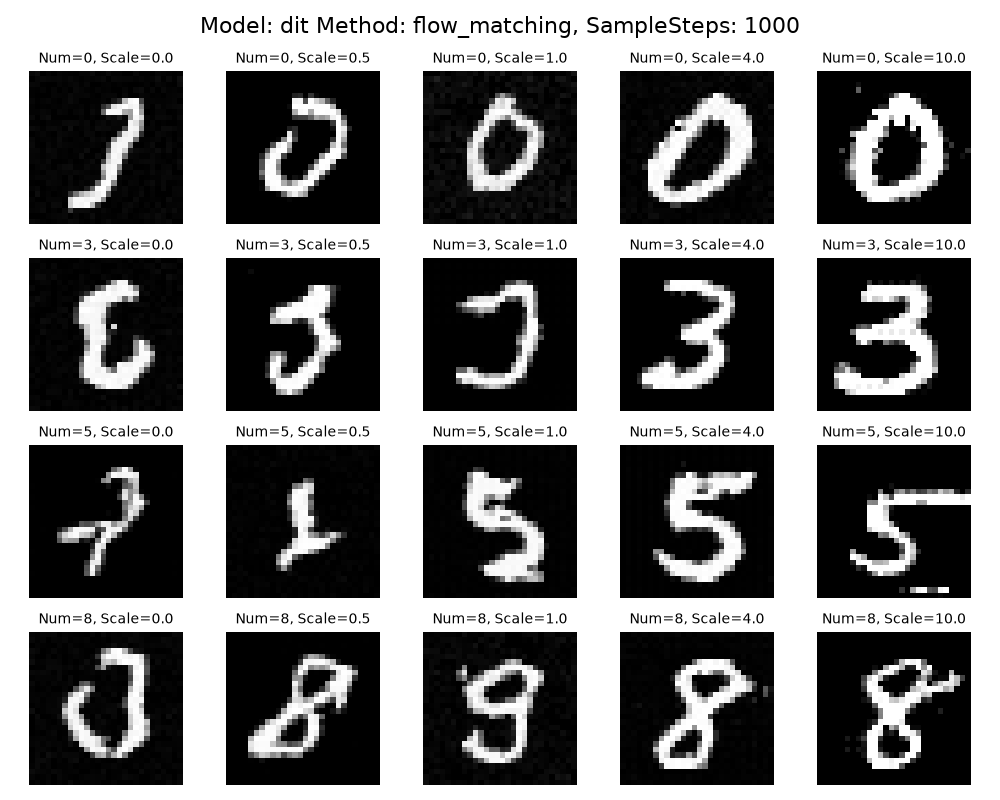
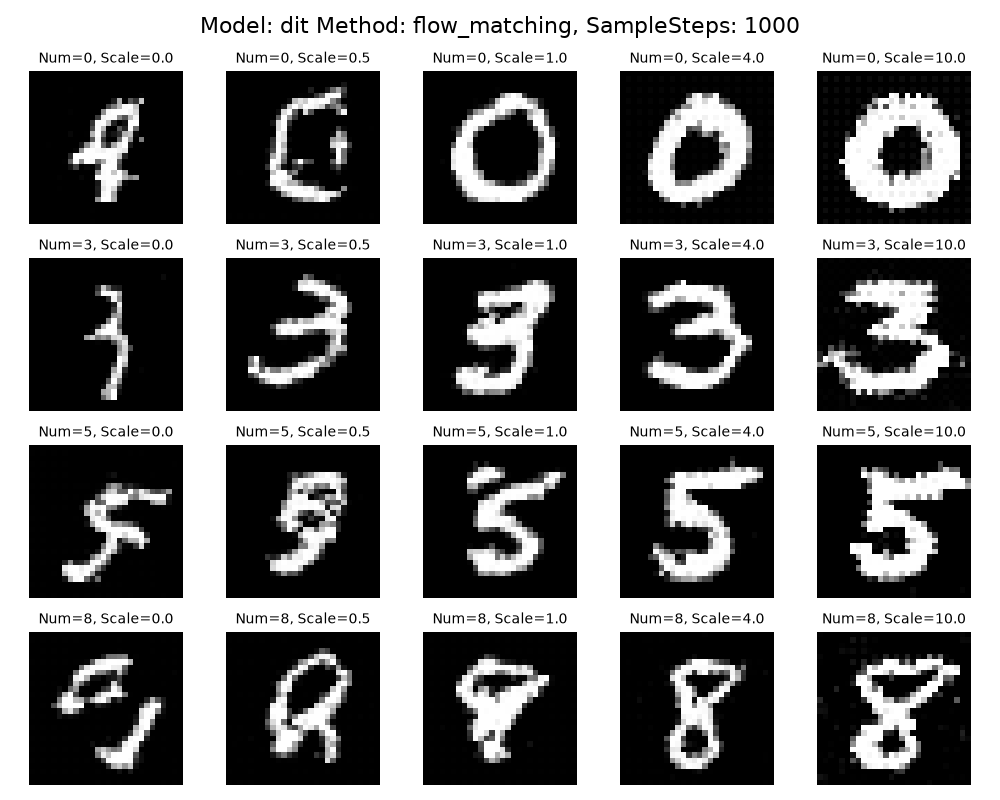
fix:修复了dit模型t使用错误的bug

diff --git a/04_diffusion_transformer/models/dit.py b/04_diffusion_transformer/models/dit.py
@@ -51,6 +51,22 @@ def modulate(x, shift, scale):
     return x * (1 + scale.unsqueeze(1)) + shift.unsqueeze(1)
 
 
+class PositionalEncoding(nn.Module):
+    def __init__(self, max_seq_len: int, d_model: int):
+        super().__init__()
+        assert d_model % 2 == 0
+        pe = torch.zeros(max_seq_len, d_model)
+        pos = torch.arange(0, max_seq_len, dtype=torch.float).unsqueeze(1)
+        div_term = torch.exp(torch.arange(0, d_model, 2).float() * (-math.log(10000.0) / d_model))
+        pe[:, 0::2] = torch.sin(pos * div_term)
+        pe[:, 1::2] = torch.cos(pos * div_term)
+        self.register_buffer('pe', pe)
+
+    def forward(self, t):
+        # t: [batch_size] 整数索引
+        return self.pe[t]
+
+
 # --- 3. DiT Block: 核心 Transformer 块 ---
 class DiTBlock(nn.Module):
     def __init__(self, hidden_size, num_heads):
@@ -94,6 +110,7 @@ class DiT(nn.Module):
         input_size, patch_size, in_channels, hidden_size = cfg.dit.input_size, cfg.dit.patch_size, cfg.dit.in_channels, cfg.dit.hidden_size
         depth, num_heads = cfg.dit.depth, cfg.dit.num_heads
         num_classes = cfg.data.num_classes
+        n_steps = cfg.method.n_steps
 
         self.in_channels = cfg.dit.in_channels
         self.patch_size = patch_size
@@ -127,6 +144,8 @@ class DiT(nn.Module):
             nn.Linear(hidden_size, 2 * hidden_size)
         )
 
+        self.t_pe = PositionalEncoding(n_steps, hidden_size)
+
         # 初始化
         self.initialize_weights()
 
@@ -154,7 +173,9 @@ class DiT(nn.Module):
 
         # 2. 条件融合 (这里简单处理：将 t 和 c 的嵌入相加)
         c_vec = self.c_embedder(c.view(-1))
-        t_vec = self.t_embedder(torch.randn(B, 128, device=x.device))  # 占位
+
+        t_pe = self.t_pe(t.view(-1))  # 得到频率编码 [B, D]
+        t_vec = self.t_embedder(t_pe)  # 经过 MLP 映射 [B, D]
 
         # cond.shape = [B, D]
         cond = t_vec + c_vec
@@ -228,7 +249,7 @@ if __name__ == "__main__":
 
     model = DiT(cfg)
     x = torch.randn(8, 1, 28, 28)
-    t = torch.randn(8, 128)  # 假设时间已经转为向量
+    t = torch.randint(0, 1000, (8, 1))
     c = torch.randint(0, 10, (8, 1))
 
     out = model(x, t, c)